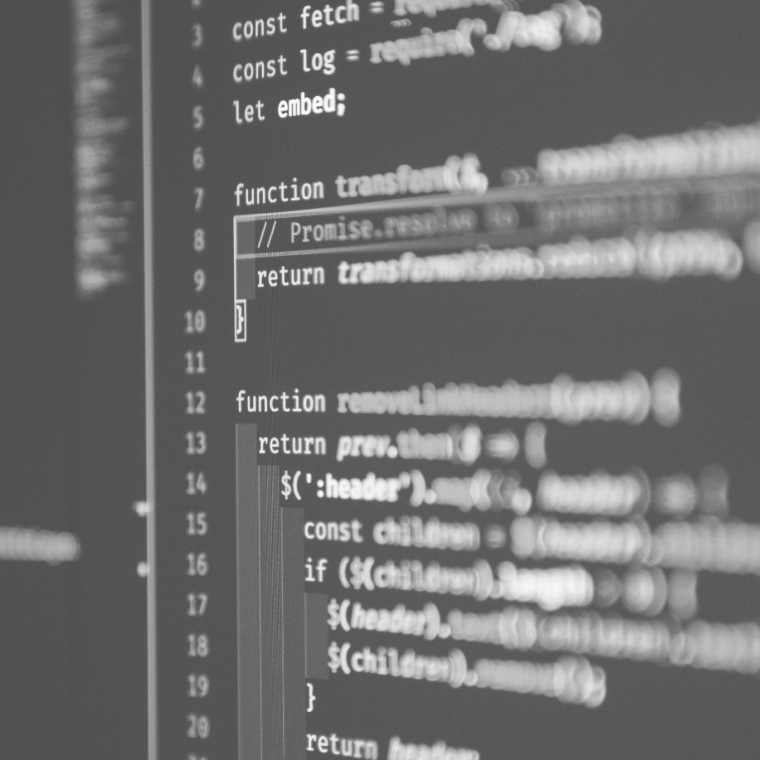
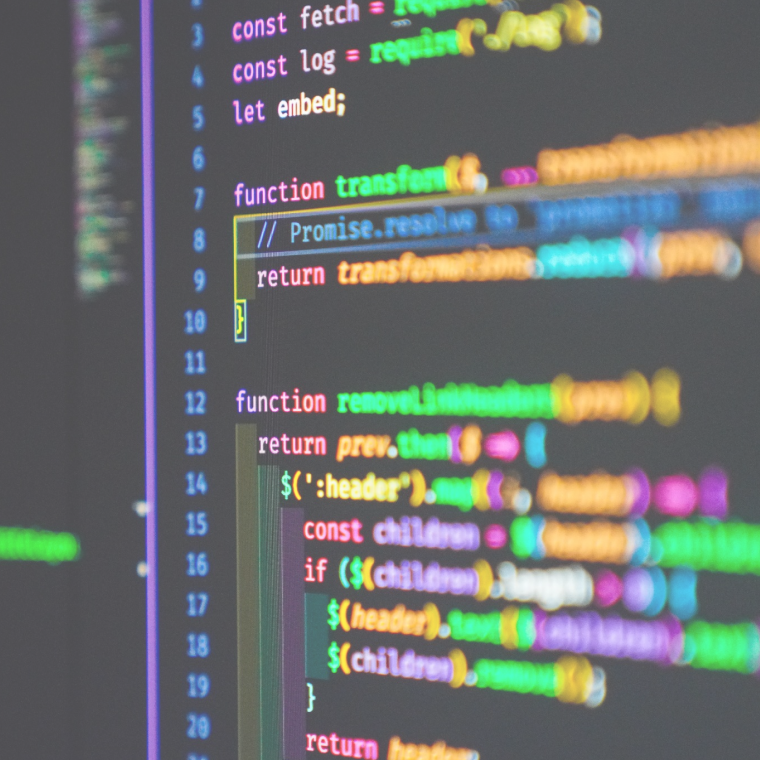
Finish our team

diff --git a/src/constants/index.js b/src/constants/index.js
@@ -59,7 +59,6 @@ export const services = {
 export const ourWorks = {
 
     heading: 'Our Works',
-    body: 'Team collaboration in which team members are experienced \npeople in their fields',
     works: [
         {
             id: '1',
@@ -84,29 +83,34 @@ export const ourWorks = {
     ]
 };
     
-const ourTeam = {
+export const ourTeam = {
 
     heading: 'Our Team',
+    body: 'Team collaboration in which team members are experienced \npeople in their fields',
     team: [
         {
             role: 'CEO',
             name: 'Dimitri',
-            img: `${team1}`
+            img: `${team1}`,
+            altText: 'Dimitri'
         },
         {
             role: 'Product Designer',
             name: 'Stephan. Jr',
-            img: `${team2}`
+            img: `${team2}`,
+            altText: 'Stephan'
         },
         {
             role: 'Programmer',
             name: 'Lusenko Larov',
-            img: `${team3}`
+            img: `${team3}`,
+            altText: 'Lusenko Larov'
         },
         {
             role: 'Marketer',
             name: 'Andi Chen',
-            img: `${team4}`
+            img: `${team4}`,
+            altText: 'Andi Chen'
         }
     ]
 };

diff --git a/src/sections/OurTeam.jsx b/src/sections/OurTeam.jsx
@@ -1,0 +1,29 @@
+import React from 'react'
+import Team from '../components/Team'
+import { ourTeam } from '../constants'
+
+const OurTeam = () => {
+  return (
+    <div className='our-team mt-24 px-24 relative'>
+        <div className='team-header flex justify-between items-center'>
+            <h2 className='font-heading text-[64px]'>{ourTeam.heading}</h2>
+            <p className='w-2/3 justify-end'>{ourTeam.body}</p>
+        </div>
+        <div className='team-container mt-12 grid grid-rows-1 grid-cols-4'>
+            {
+                ourTeam.team.map((member) => (
+                    <Team
+                        img={member.img}
+                        name={member.name}
+                        role={member.role}
+                        altText={member.altText}
+                    />
+                ))
+            }
+        </div>
+        <div className='bg-blur w-[570px] h-[570px] bg-primary rounded-full absolute top-36 left-[30%] -z-10 blur-template'></div>
+    </div>
+  )
+}
+
+export default OurTeam

diff --git a/src/components/CardService.jsx b/src/components/CardService.jsx
@@ -2,7 +2,7 @@ import React from 'react'
 
 const CardService = ({ img, title, altText }) => {
   return (
-    <div className='w-[380px] h-[380px]'>
+    <div className='w-[380px] h-[380px] grayscale hover:grayscale-0'>
       <div className='hover-box relative hover:cursor-pointer opacity-70 hover:scale-110 hover:opacity-100 transition-all ease-in-out'>
         <h2 className='text-[45px] absolute z-10 top-1/2 left-1/2 -translate-x-1/2 -translate-y-1/2 bg-primary w-full text-center'>{title}</h2>
         <img className='relative' src={img} alt={altText} />

diff --git a/src/components/Team.jsx b/src/components/Team.jsx
@@ -1,0 +1,15 @@
+import React from 'react'
+
+const Team = ({ altText, img, name, role }) => {
+  return (
+    <div className='team-card text-center w-[280px] grayscale hover:grayscale-0'>
+        <img src={img} alt={altText} />
+        <div className='team-body mt-7'>
+            <h3 className='text-[32px] font-medium'>{name}</h3>
+            <p className='text-[20px]'>{role}</p>
+        </div>
+    </div>
+  )
+}
+
+export default Team

diff --git a/src/App.jsx b/src/App.jsx
@@ -4,6 +4,7 @@ import AboutUs from './sections/AboutUs';
 import Hero from './sections/Hero';
 import OurServices from './sections/OurServices';
 import OurStack from './sections/OurStack';
+import OurTeam from './sections/OurTeam';
 import OurWorks from './sections/OurWorks';
 
 function App() {
@@ -17,6 +18,7 @@ function App() {
         <OurStack />
         <OurServices />
         <OurWorks />
+        <OurTeam />
       </div>
   )
 }

diff --git a/src/components/CardWorks.jsx b/src/components/CardWorks.jsx
@@ -3,7 +3,7 @@ import React from 'react'
 const CardWorks = ({ img, altText })  => {
   return (
     <img 
-        className='w-[450px] h-[500px] opacity-70 hover:opacity-100 transition-all ease-in-out' 
+        className='w-[450px] h-[500px] grayscale hover:grayscale-0 transition-all ease-in-out' 
         src={img} 
         alt={altText} 
     />
